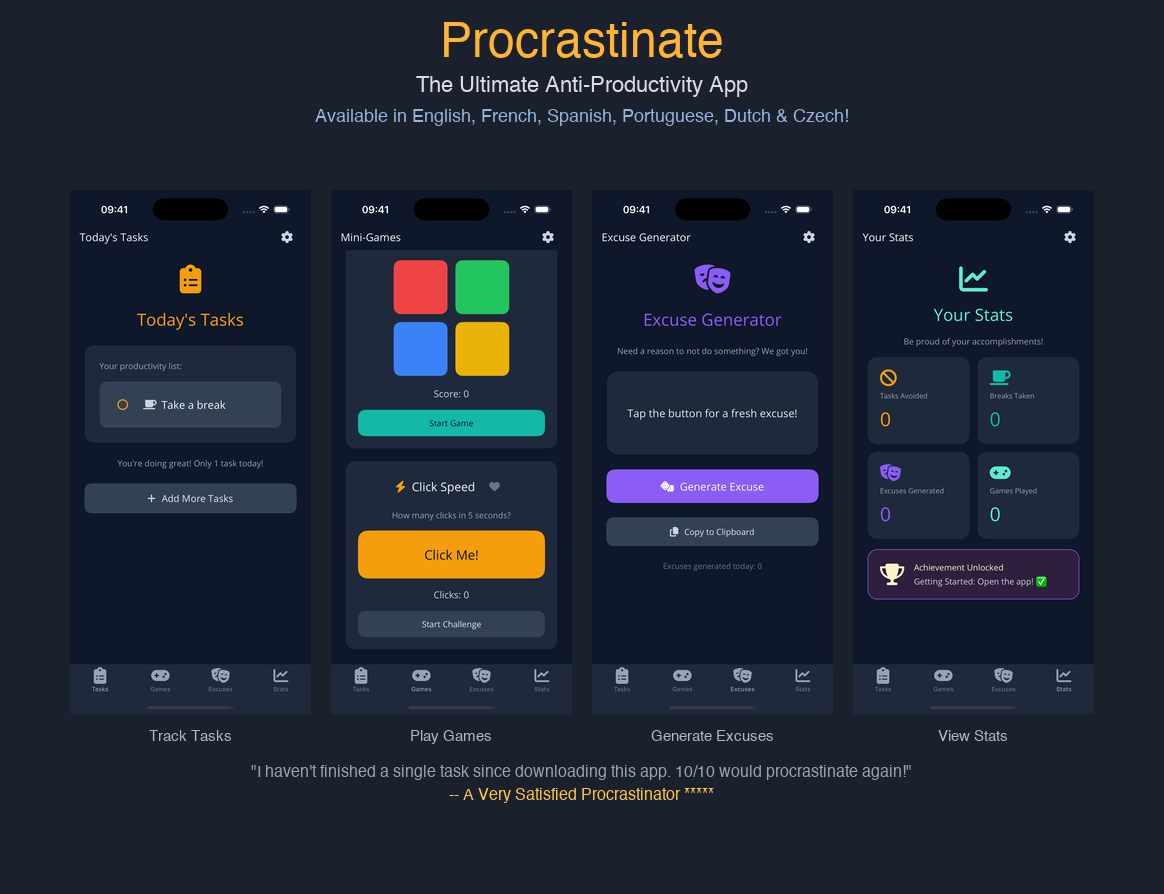
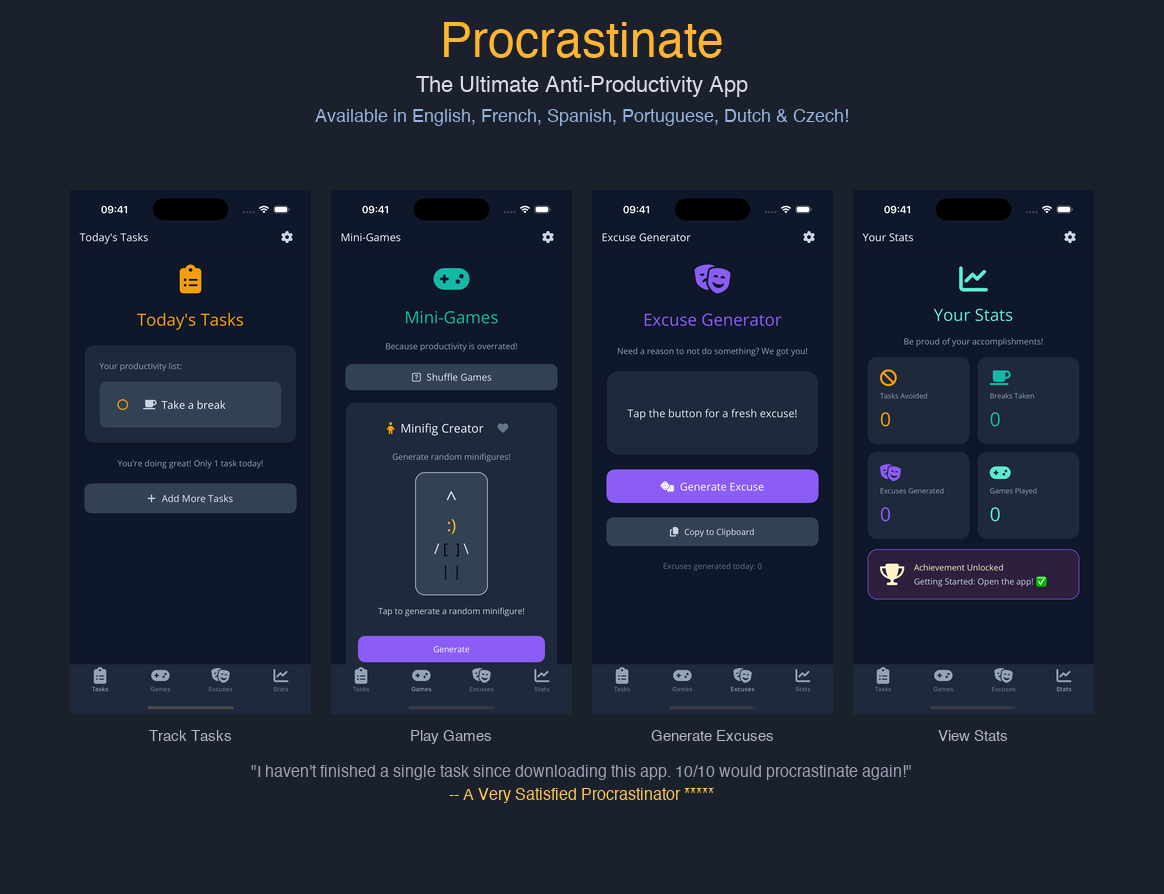
Add Minifig Creator game (LEGO-style character generator)

Changed region(s): [[0.2784, 0.2718, 0.4948, 0.755]]

diff --git a/Pages/Games/MinifigGeneratorGameView.xaml b/Pages/Games/MinifigGeneratorGameView.xaml
@@ -1,0 +1,59 @@
+<?xml version="1.0" encoding="utf-8" ?>
+<ContentView xmlns="http://schemas.microsoft.com/dotnet/2021/maui"
+             xmlns:x="http://schemas.microsoft.com/winfx/2009/xaml"
+             xmlns:strings="clr-namespace:procrastinate.Resources.Strings"
+             x:Class="procrastinate.Pages.Games.MinifigGeneratorGameView">
+    <VerticalStackLayout Spacing="16">
+        <!-- Minifigure Display -->
+        <Border BackgroundColor="{DynamicResource CardBackgroundAlt}" 
+                StrokeShape="RoundRectangle 16" 
+                Padding="20"
+                HorizontalOptions="Center">
+            <VerticalStackLayout Spacing="4" HorizontalOptions="Center">
+                <!-- Hair/Hat -->
+                <Label x:Name="HairLabel" Text="^" FontSize="32" HorizontalOptions="Center" TextColor="{DynamicResource Gray200}"/>
+                <!-- Face -->
+                <Label x:Name="FaceLabel" Text=":)" FontSize="28" HorizontalOptions="Center" TextColor="#FBBF24"/>
+                <!-- Torso -->
+                <Grid HorizontalOptions="Center">
+                    <Grid.ColumnDefinitions>
+                        <ColumnDefinition Width="20"/>
+                        <ColumnDefinition Width="40"/>
+                        <ColumnDefinition Width="20"/>
+                    </Grid.ColumnDefinitions>
+                    <Label x:Name="LeftArmLabel" Grid.Column="0" Text="/" FontSize="24" HorizontalOptions="End" TextColor="{DynamicResource Gray200}"/>
+                    <Label x:Name="TorsoLabel" Grid.Column="1" Text="[  ]" FontSize="24" HorizontalOptions="Center"/>
+                    <Label x:Name="RightArmLabel" Grid.Column="2" Text="\" FontSize="24" HorizontalOptions="Start" TextColor="{DynamicResource Gray200}"/>
+                </Grid>
+                <!-- Legs -->
+                <Label x:Name="LegsLabel" Text="| |" FontSize="24" HorizontalOptions="Center"/>
+                <!-- Accessory (held item) -->
+                <Label x:Name="AccessoryLabel" Text="" FontSize="18" HorizontalOptions="Center" TextColor="{DynamicResource Tertiary}"/>
+            </VerticalStackLayout>
+        </Border>
+        
+        <!-- Description -->
+        <Label x:Name="DescriptionLabel" 
+               Text="Tap to generate a random minifigure!" 
+               HorizontalOptions="Center" 
+               HorizontalTextAlignment="Center"
+               FontSize="14" 
+               TextColor="{DynamicResource Gray300}"/>
+        
+        <!-- Name -->
+        <Label x:Name="NameLabel" 
+               Text="" 
+               HorizontalOptions="Center" 
+               FontSize="18" 
+               FontAttributes="Bold"
+               TextColor="{DynamicResource Primary}"/>
+        
+        <Button x:Name="GenerateBtn" 
+                Text="{Binding Generate, Source={x:Static strings:AppStrings.Instance}}"
+                BackgroundColor="{DynamicResource Tertiary}" 
+                TextColor="White"
+                CornerRadius="12" 
+                HeightRequest="44"
+                Clicked="OnGenerateClicked"/>
+    </VerticalStackLayout>
+</ContentView>

diff --git a/Pages/Games/MinifigGeneratorGameView.xaml.cs b/Pages/Games/MinifigGeneratorGameView.xaml.cs
@@ -1,0 +1,67 @@
+using procrastinate.Resources.Strings;
+
+namespace procrastinate.Pages.Games;
+
+public partial class MinifigGeneratorGameView : ContentView
+{
+    private static readonly string[] HairStyles = ["^", "~", "M", "W", "o", "=", "#", "@", "*", "()"];
+    private static readonly string[] Faces = [":)", ":]", ":D", ";)", ":|", ":o", "xD", ":P", "B)", ">:)"];
+    private static readonly string[] TorsoPatterns = ["[##]", "[  ]", "[><]", "[==]", "[||]", "[~~]", "[**]", "[++]", "[//]", "[@@]"];
+    private static readonly string[] LegStyles = ["| |", "|_|", "/ \\", "||", "Y", "A", "V"];
+    private static readonly string[] Accessories = ["", "~===>", "O-", "*", "|=|", "~", "$", "+", "?", "!"];
+    
+    private static readonly string[] HairColors = ["#8B4513", "#FFD700", "#1C1C1C", "#FF6B35", "#8B0000", "#CD853F", "#A0522D", "#F5F5DC"];
+    private static readonly string[] TorsoColors = ["#EF4444", "#3B82F6", "#22C55E", "#F59E0B", "#8B5CF6", "#EC4899", "#14B8A6", "#6366F1"];
+    private static readonly string[] LegColors = ["#1E40AF", "#1C1C1C", "#7C3AED", "#059669", "#DC2626", "#92400E"];
+    
+    private static readonly string[] FirstNames = ["Brick", "Block", "Stud", "Plate", "Minnie", "Figgy", "Lego", "Clicky", "Snap", "Stack"];
+    private static readonly string[] LastNames = ["Builder", "Master", "Maker", "Creator", "Smith", "Jones", "McBrick", "O'Block", "Von Stud", "Blockson"];
+    private static readonly string[] Titles = ["the Brave", "the Builder", "the Wise", "the Swift", "the Bold", "the Creative", "the Tiny", "the Mighty", "Jr.", "III"];
+    
+    public Action? OnGamePlayed { get; set; }
+
+    public MinifigGeneratorGameView()
+    {
+        InitializeComponent();
+    }
+
+    private void OnGenerateClicked(object? sender, EventArgs e)
+    {
+        OnGamePlayed?.Invoke();
+        GenerateMinifig();
+    }
+
+    private void GenerateMinifig()
+    {
+        // Random parts
+        HairLabel.Text = HairStyles[Random.Shared.Next(HairStyles.Length)];
+        FaceLabel.Text = Faces[Random.Shared.Next(Faces.Length)];
+        TorsoLabel.Text = TorsoPatterns[Random.Shared.Next(TorsoPatterns.Length)];
+        LegsLabel.Text = LegStyles[Random.Shared.Next(LegStyles.Length)];
+        AccessoryLabel.Text = Accessories[Random.Shared.Next(Accessories.Length)];
+        
+        // Random colors
+        HairLabel.TextColor = Color.FromArgb(HairColors[Random.Shared.Next(HairColors.Length)]);
+        TorsoLabel.TextColor = Color.FromArgb(TorsoColors[Random.Shared.Next(TorsoColors.Length)]);
+        LegsLabel.TextColor = Color.FromArgb(LegColors[Random.Shared.Next(LegColors.Length)]);
+        
+        // Random name
+        var firstName = FirstNames[Random.Shared.Next(FirstNames.Length)];
+        var lastName = LastNames[Random.Shared.Next(LastNames.Length)];
+        var title = Random.Shared.Next(100) < 40 ? " " + Titles[Random.Shared.Next(Titles.Length)] : "";
+        NameLabel.Text = $"{firstName} {lastName}{title}";
+        
+        // Random description
+        var descriptions = new[]
+        {
+            AppStrings.GetString("MinifigDesc1"),
+            AppStrings.GetString("MinifigDesc2"),
+            AppStrings.GetString("MinifigDesc3"),
+            AppStrings.GetString("MinifigDesc4"),
+            AppStrings.GetString("MinifigDesc5")
+        };
+        DescriptionLabel.Text = descriptions[Random.Shared.Next(descriptions.Length)];
+    }
+
+    public void Stop() { }
+}

diff --git a/Pages/Games/MinifigGeneratorGame.cs b/Pages/Games/MinifigGeneratorGame.cs
@@ -1,0 +1,25 @@
+using procrastinate.Resources.Strings;
+
+namespace procrastinate.Pages.Games;
+
+public class MinifigGeneratorGame : MiniGame
+{
+    public override string Name => AppStrings.GetString("MinifigGenerator");
+    public override string Icon => "\uf1ae"; // child/person icon
+    public override string IconColor => "#F59E0B";
+    public override string Description => AppStrings.GetString("MinifigGeneratorDesc");
+
+    private MinifigGeneratorGameView? _gameView;
+
+    public override View CreateGameView()
+    {
+        _gameView = new MinifigGeneratorGameView
+        {
+            OnGamePlayed = () => OnGamePlayed?.Invoke()
+        };
+        return _gameView;
+    }
+
+    public override void StartGame() { }
+    public override void StopGame() => _gameView?.Stop();
+}

diff --git a/Pages/GamesPage.xaml.cs b/Pages/GamesPage.xaml.cs
@@ -27,7 +27,8 @@ public partial class GamesPage : ContentPage
             new MemoryMatchGame(),
             new NumberGuessingGame(),
             new WhackAMoleGame(),
-            new EggsCatchGame()
+            new EggsCatchGame(),
+            new MinifigGeneratorGame()
         ];
 
         foreach (var game in _allGames)

diff --git a/Resources/Strings/AppStrings.cs b/Resources/Strings/AppStrings.cs
@@ -179,4 +179,5 @@ public class AppStrings : INotifyPropertyChanged
     public string YourTurn => this["YourTurn"];
     public string TiltToMove => this["TiltToMove"];
     public string StartGame30s => this["StartGame30s"];
+    public string Generate => this["Generate"];
 }

diff --git a/.github/TODO.md b/.github/TODO.md
@@ -15,8 +15,9 @@
 - ~~popup shown on 'add more task' isn't zalgo, if zalgo is set~~
 - ~~in settings page: icons and title (like accessibility) aren't vertically aligned~~
 - ~~settings still doesn't close on changing tab~~
+- there's a shortcut to declare Grid Row/Col Definitions, with a converter
 
 ## Games
-- add a game like "game & Watch" "mickey mouse" (aka eggs) game
-- add a game that randomly creates a LEGO minifigure
+- ~~add a game like "game & Watch" "mickey mouse" (aka eggs) game~~
+- ~~add a game that randomly creates a LEGO minifigure~~
 - clickspeed: ScoreLabel should use a binding to update, without a trigger from code. same for most games using UpdateXXX methods to update labels
